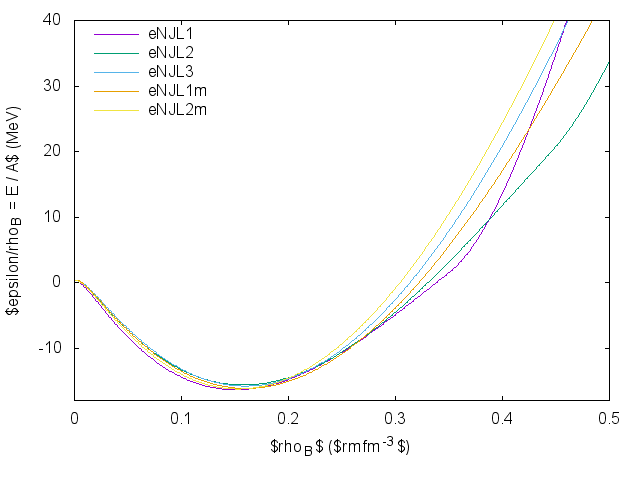
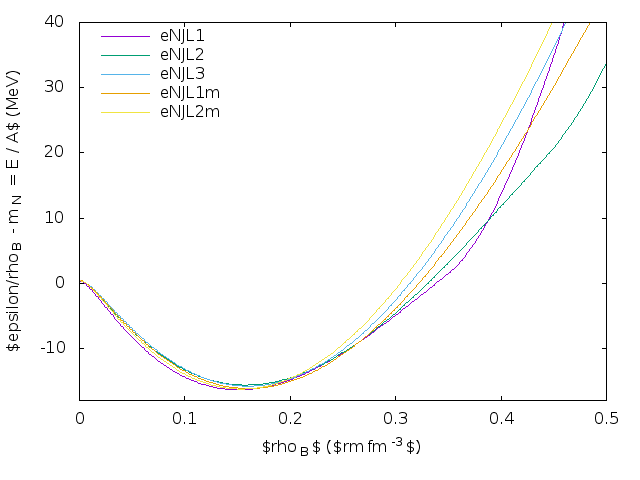
Comenta sobre reprodução de resultados de Pais

diff --git a/graphics/En_per_part_Rep_Pais/energy_density_per_particle.tex b/graphics/En_per_part_Rep_Pais/energy_density_per_particle.tex
@@ -1,6 +1,6 @@
 \begin{tikzpicture}[gnuplot]
-%% generated with GNUPLOT 5.0p4 (Lua 5.2; terminal rev. 99, script rev. 100)
-%% Fri Aug 19 18:52:50 2016
+%% generated with GNUPLOT 5.0p3 (Lua 5.3; terminal rev. 99, script rev. 100)
+%% 2016-08-21T15:16:45 BRT
 \path (0.000,0.000) rectangle (14.000,9.000);
 \gpcolor{color=gp lt color border}
 \gpsetlinetype{gp lt border}
@@ -43,7 +43,7 @@
 \draw[gp path] (13.447,8.631)--(13.447,8.451);
 \node[gp node center] at (13.447,0.677) {$0.5$};
 \draw[gp path] (1.320,8.631)--(1.320,0.985)--(13.447,0.985)--(13.447,8.631)--cycle;
-\node[gp node center,rotate=-270] at (0.246,4.808) {$\epsilon/\rho_B = E / A$ (MeV)};
+\node[gp node center,rotate=-270] at (0.246,4.808) {$\epsilon/\rho_B - m_N = E / A$ (MeV)};
 \node[gp node center] at (7.383,0.215) {$\rho_B$ ($\rm{fm}^{-3}$)};
 \node[gp node left] at (2.788,8.297) {eNJL1};
 \gpcolor{rgb color={0.580,0.000,0.827}}

diff --git a/Chapters/Thermodynamics.tex b/Chapters/Thermodynamics.tex
@@ -318,6 +318,7 @@ onde $\tilde{n}$ é dado por
 	\hat{n} = \begin{cases} n_p(T, \mu_R), \quad \textrm{se}~ \xi = E_p - \mu \\ \bar{n}_p(T, \mu_R), \quad \textrm{se}~ \xi = E_p + \mu. \end{cases}
 \end{equation}
 %
+<<<<<<< Updated upstream
 Temos então
 \begin{equation}\label{Eq:Densidade_de_entropia_deriv_simplificada}
 \begin{split}
@@ -327,6 +328,9 @@ Temos então
 \end{equation}
 %
 onde a integração deverá ser feita no intervalo $|\vec{p}| = [0;\Lambda]$:
+=======
+Temos então\footnote{É fácil mostrar que $1 - n_p = 1/(1 + \exp(-(E_p - \mu_p)/T))$ e que $1 - \bar{n}_p = 1/(1 + \exp(-(E_p + \mu_p)/T))$.}
+>>>>>>> Stashed changes
 \begin{equation}
 \begin{split}
 	s = \frac{n_f n_c}{\pi^2} \int_0^\Lambda \Big\{&-\ln(1 - n_p(T, \mu_R)) + \frac{E_p - \mu_R}{T} n_p(T, \mu_R) \\
